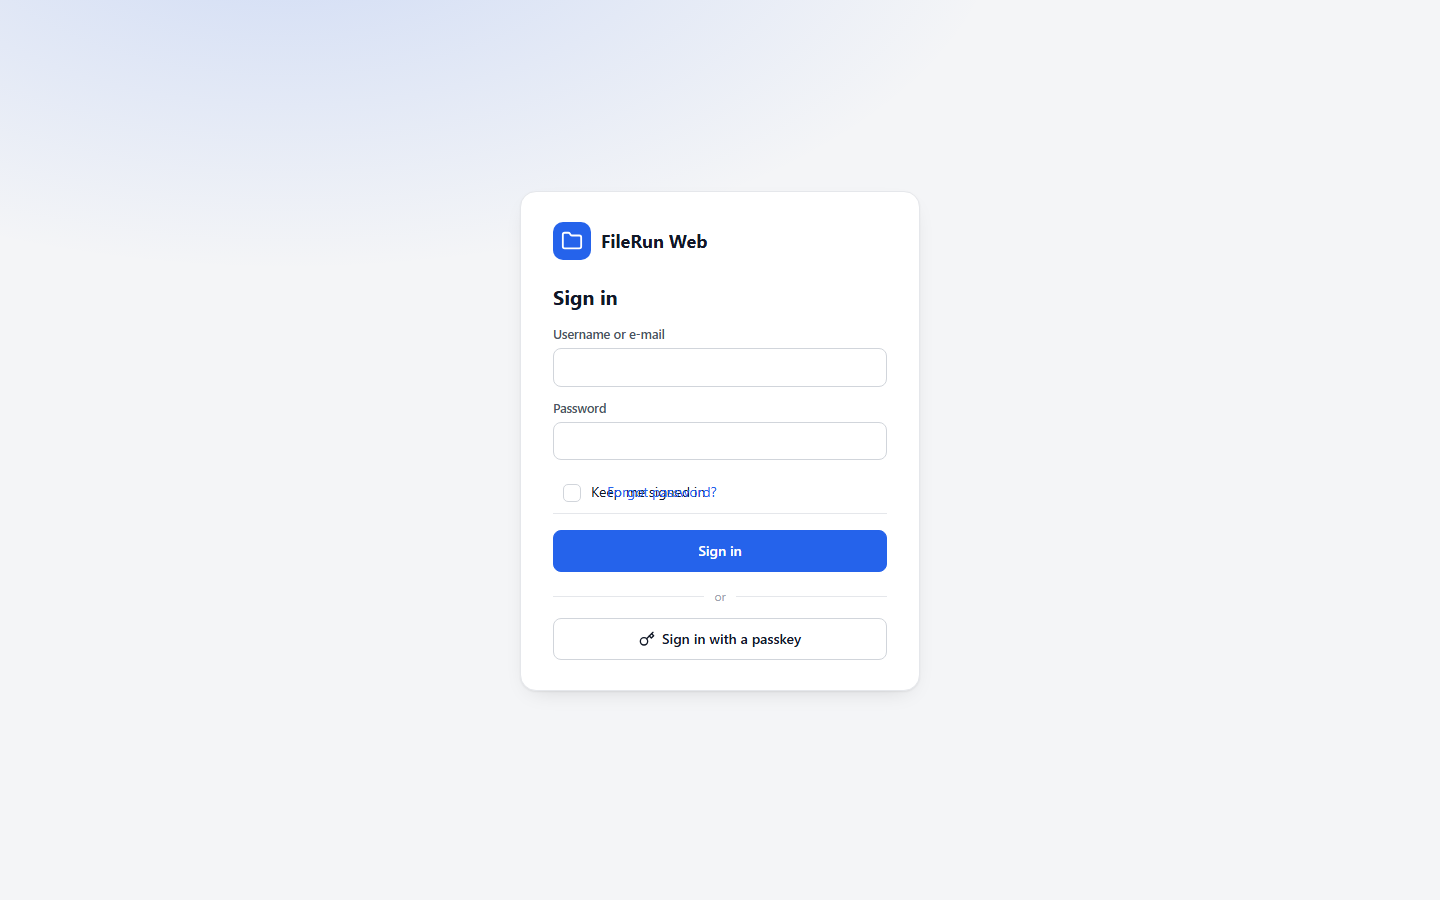
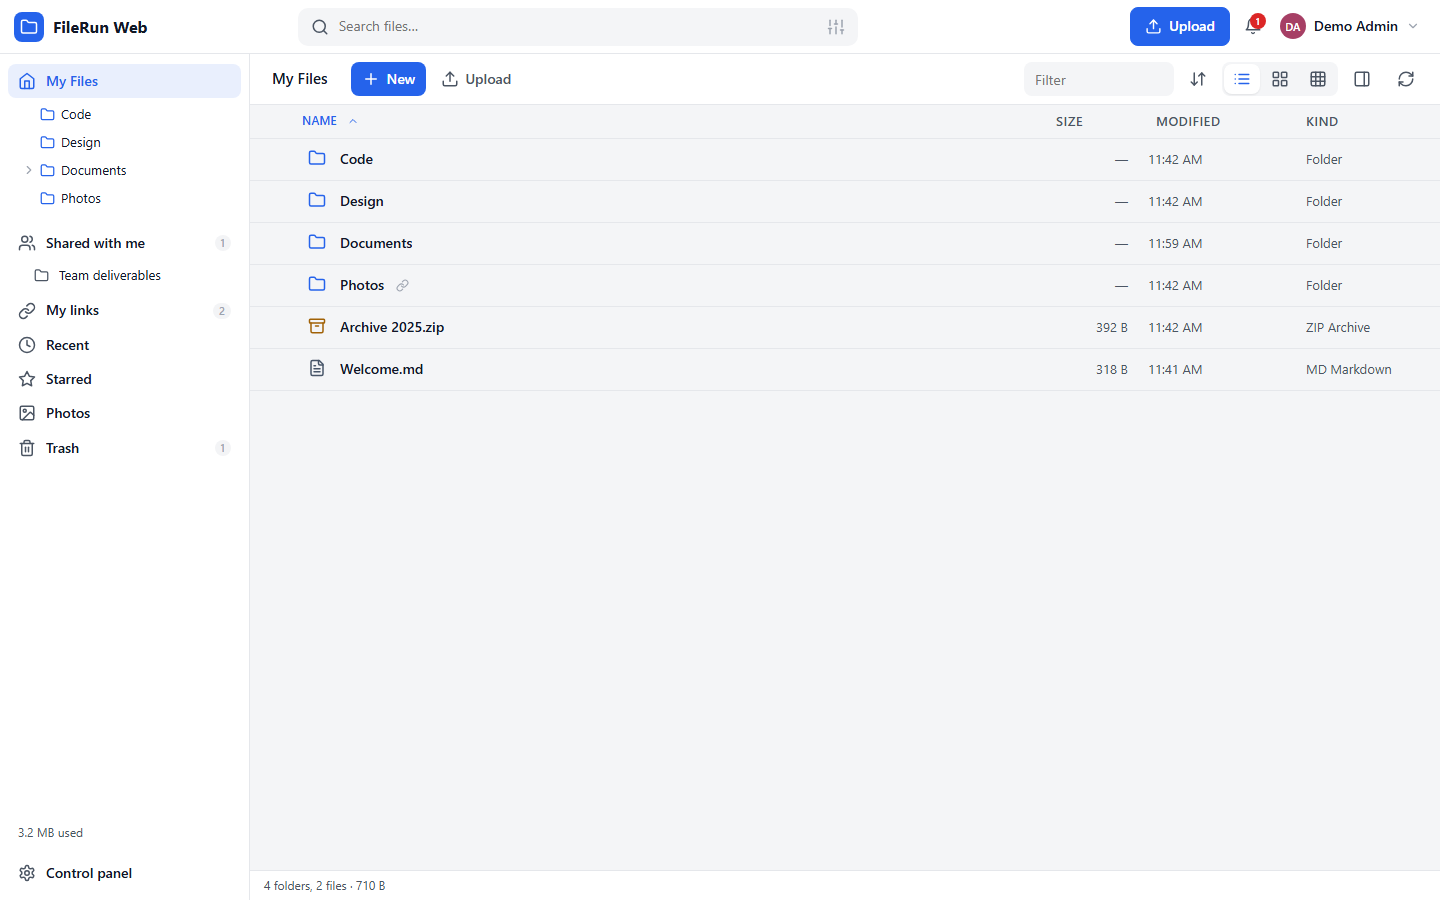
Docs: screenshots, Pages site, viewer and dialog fixes
- 17 documentation screenshots taken with tools/screenshots.mjs
- pdf.js viewer, CSV table view, CodeMirror plain-text fix, confirm dialogs accept Enter
- CSS: list rows scoped so form rows keep their flex layout; compact toolbar on narrow screens
- Home folder is named "My Files" in the details panel

diff --git a/assets/css/app.css b/assets/css/app.css
@@ -305,16 +305,17 @@ select.input { appearance: auto; }
 
 /* List view */
 .list-head { position: sticky; top: 0; z-index: 2; display: grid; grid-template-columns: 36px minmax(200px, 1fr) 100px 150px 130px; background: var(--bg); border-bottom: 1px solid var(--border); font-size: 12px; color: var(--text-2); padding: 0 10px; }
-.content:has(.col-loc) .list-head, .content:has(.col-loc) .row { grid-template-columns: 36px minmax(200px, 1fr) minmax(120px, .6fr) 100px 150px 130px; }
-.trash-view .list-head, .trash-view .row { grid-template-columns: 36px minmax(200px, 1fr) minmax(120px, .6fr) 100px 170px 150px !important; }
+.content:has(.col-loc) .list-head, .content:has(.col-loc) .list-body .row { grid-template-columns: 36px minmax(200px, 1fr) minmax(120px, .6fr) 100px 150px 130px; }
+.trash-view .list-head, .trash-view .list-body .row { grid-template-columns: 36px minmax(200px, 1fr) minmax(120px, .6fr) 100px 170px 150px !important; }
 .list-head:has(.col-meta), .list-body:has(.col-meta) .row { grid-auto-columns: 130px; grid-auto-flow: column; }
 .head-cell { border: 0; background: none; text-align: left; padding: 8px 6px; cursor: pointer; color: inherit; font: inherit; display: flex; align-items: center; gap: 4px; text-transform: uppercase; letter-spacing: .03em; font-size: 11.5px; font-weight: 600; }
 .head-cell.active { color: var(--accent); } .head-cell .ic { width: 12px; height: 12px; }
-.row { display: grid; grid-template-columns: 36px minmax(200px, 1fr) 100px 150px 130px; align-items: center; min-height: 42px; padding: 0 10px; border-bottom: 1px solid var(--border); cursor: default; position: relative; user-select: none; }
-.row:hover { background: var(--hover); }
-.row.selected { background: var(--selected); }
-.row.focused::before { content: ""; position: absolute; left: 0; top: 0; bottom: 0; width: 3px; background: var(--accent); }
-.row.drop-target { background: var(--selected); outline: 1.5px dashed var(--accent); outline-offset: -2px; }
+.list-head .col-loc, .list-head .col-meta, .list-head .col-actions { padding: 8px 6px; text-transform: uppercase; letter-spacing: .03em; font-size: 11.5px; font-weight: 600; }
+.list-body .row { display: grid; grid-template-columns: 36px minmax(200px, 1fr) 100px 150px 130px; align-items: center; min-height: 42px; padding: 0 10px; border-bottom: 1px solid var(--border); cursor: default; position: relative; user-select: none; }
+.list-body .row:hover { background: var(--hover); }
+.list-body .row.selected { background: var(--selected); }
+.list-body .row.focused::before { content: ""; position: absolute; left: 0; top: 0; bottom: 0; width: 3px; background: var(--accent); }
+.list-body .row.drop-target { background: var(--selected); outline: 1.5px dashed var(--accent); outline-offset: -2px; }
 .col-check { display: flex; align-items: center; justify-content: center; }
 .check-box { width: 18px; height: 18px; border: 1.5px solid var(--border-strong); border-radius: 5px; display: inline-flex; align-items: center; justify-content: center; color: transparent; background: var(--panel); opacity: 0; transition: opacity .12s; cursor: pointer; }
 .check-box .ic { width: 13px; height: 13px; }
@@ -553,7 +554,7 @@ select.input { appearance: auto; }
   .layout.sidebar-open .sidebar { transform: none; }
   .brand-name, .user-name, .tbtn-label, .btn-upload span { display: none; }
   .search { max-width: none; }
-  .list-head, .row { grid-template-columns: 36px 1fr 80px 90px !important; } .col-kind, .col-loc, .col-meta { display: none; }
+  .list-head, .list-body .row { grid-template-columns: 36px 1fr 80px 90px !important; } .col-kind, .col-loc, .col-meta { display: none; }
   .settings-layout { grid-template-columns: 1fr; } .settings-nav { position: static; } .settings-nav .tabs { flex-direction: row; overflow-x: auto; }
   .form-grid { grid-template-columns: 1fr; } .check-list.cols { columns: 1; }
   .filter-input { display: none; }

diff --git a/app/lib/Paths.php b/app/lib/Paths.php
@@ -47,6 +47,7 @@ final class Ctx
     public function name(): string
     {
         if ($this->rel === '') {
+            if ($this->root === 'home') return 'My Files';
             return $this->share['alias'] ?? ($this->link['title'] ?? ($this->owner['name'] ?: $this->owner['username']));
         }
         return Util::baseName($this->rel);
